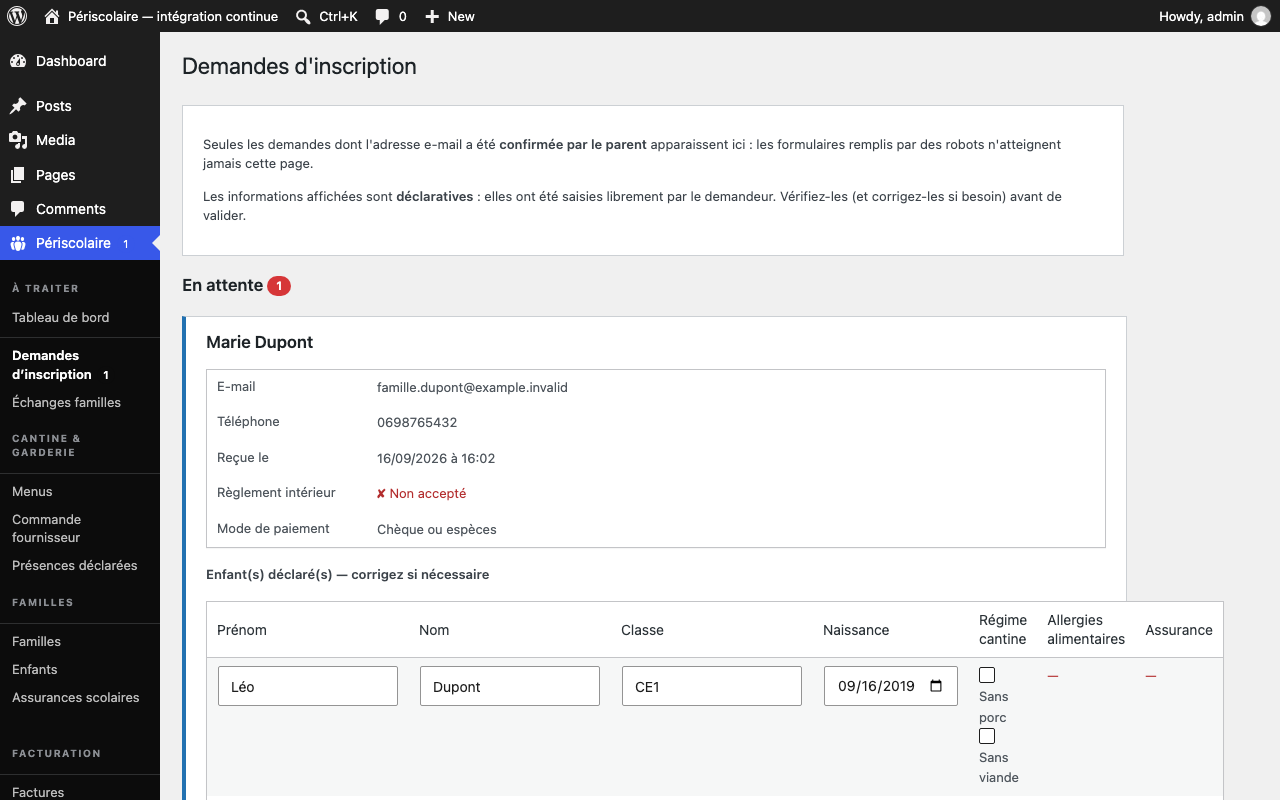
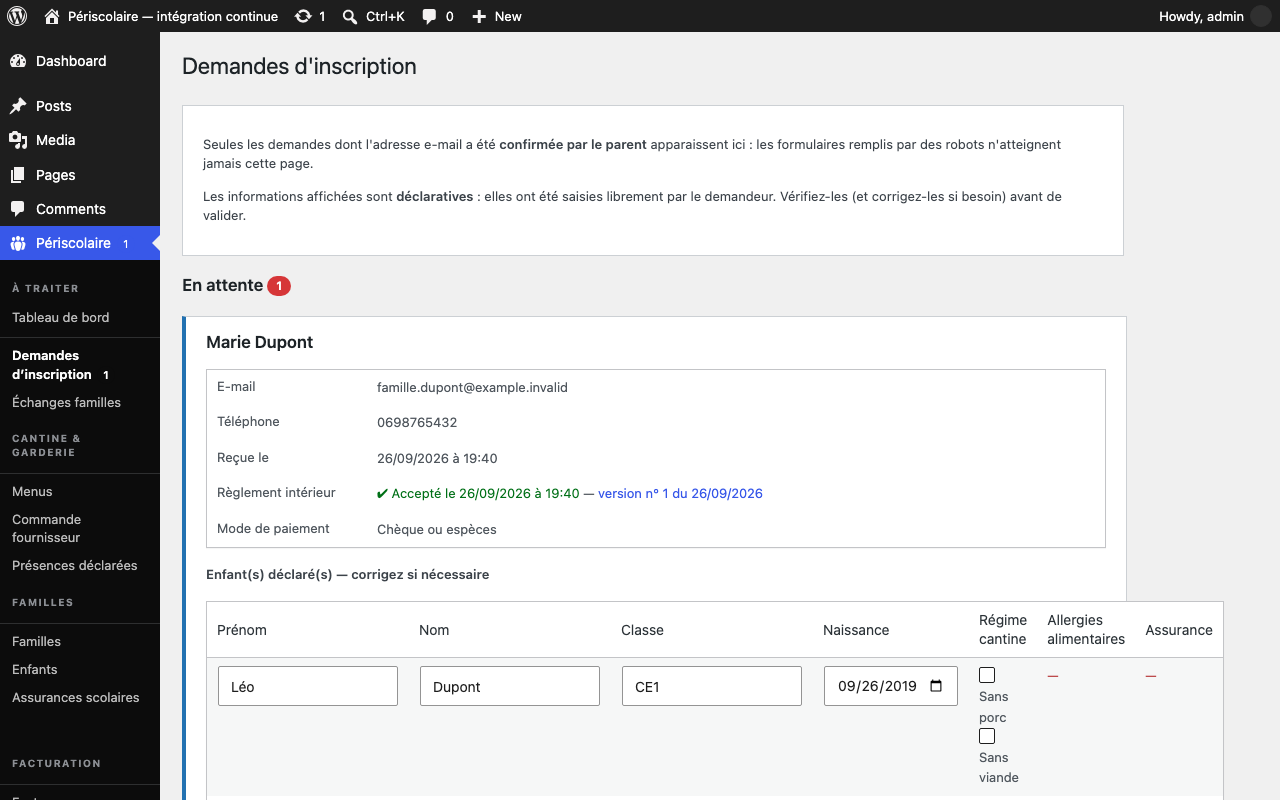
docs(captures): demande en attente avec règlement accepté et sa version
Claude-Session: https://claude.ai/code/session_01NUknn5V2uYE87AKNARM7tY

diff --git a/bin/seed-docs-screenshots.php b/bin/seed-docs-screenshots.php
@@ -243,6 +243,9 @@ WP_CLI::add_command('seed-docs-screenshots', function ($args, $assoc_args) {
         ))),
         'verified'       => 1,
         'status'         => 'pending',
+        // Comme toute demande réelle : règlement accepté, avec sa version.
+        'reglement_accepted_at' => current_time('mysql'),
+        'reglement_version_id'  => Psc_Document_Versions::current_id('reglement_interieur'),
         'payment_mode'   => 'autre',
         'created_at'     => current_time('mysql'),
     ));
